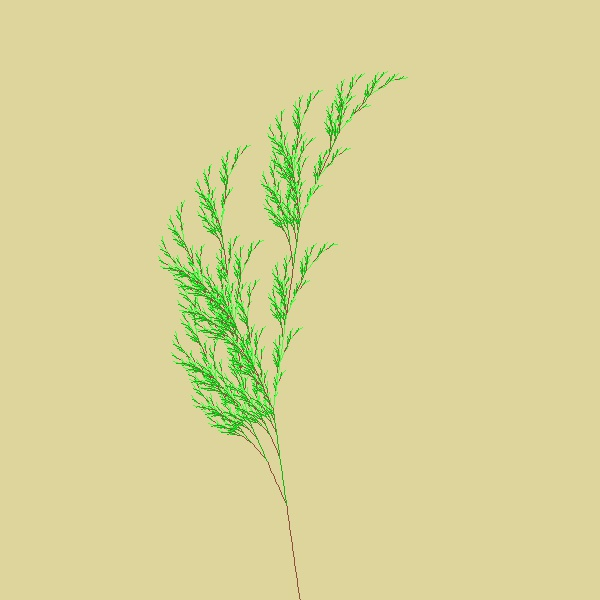
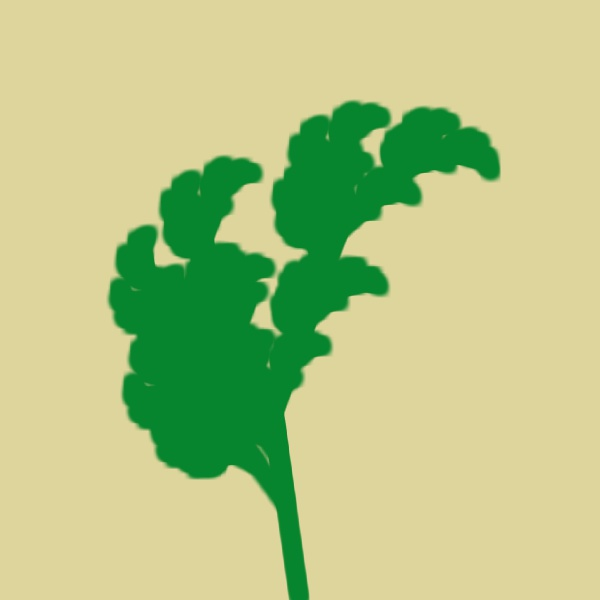
added paint brush to line drawing

Changed region(s): [[0.18, 0.12, 0.84, 1.0]]

diff --git a/site/htdocs/the-world/herbarium/index.php b/site/htdocs/the-world/herbarium/index.php
@@ -117,6 +117,11 @@ function drawPlant() {
 	imagefilledellipse($brush, 1, 1, 2, 2, $colour);
 	imagesetbrush($plantCanvas, $brush);
 	*/
+
+// load brush image:
+	$brush1 = imagecreatefrompng($_SERVER['DOCUMENT_ROOT'].'/images/herbarium/brush1.png');
+	imagesetbrush($plantCanvas, $brush1);
+
 	$penColour0 = imagecolorallocate($plantCanvas, 140, 80, 60);
 	$penColour1 = imagecolorallocate($plantCanvas, 24, 180, 24);
 	$penColour2 = imagecolorallocate($plantCanvas, 48, 220, 48);
@@ -182,12 +187,14 @@ function drawPlant() {
 				$rad = deg2rad($pos["heading"]);
 				$pos["x"] -= $distance * sin($rad);
 				$pos["y"] -= $distance * cos($rad);
-				imageline($plantCanvas, $lastX, $lastY, $pos["x"], $pos["y"], ${'penColour'.$pos["colour"]});
+				// imageline($plantCanvas, $lastX, $lastY, $pos["x"], $pos["y"], ${'penColour'.$pos["colour"]});
+				imageline($plantCanvas, $lastX, $lastY, $pos["x"], $pos["y"], IMG_COLOR_BRUSHED);
 		}
 	}
 	// output:
 	imagejpeg($plantCanvas,$_SERVER['DOCUMENT_ROOT'].'/images/herbarium/output.jpg',95);
 	imagedestroy($plantCanvas);
+	imagedestroy($brush1);
 }
 
 function findAndReplaceHashes($stringToCheck) {
